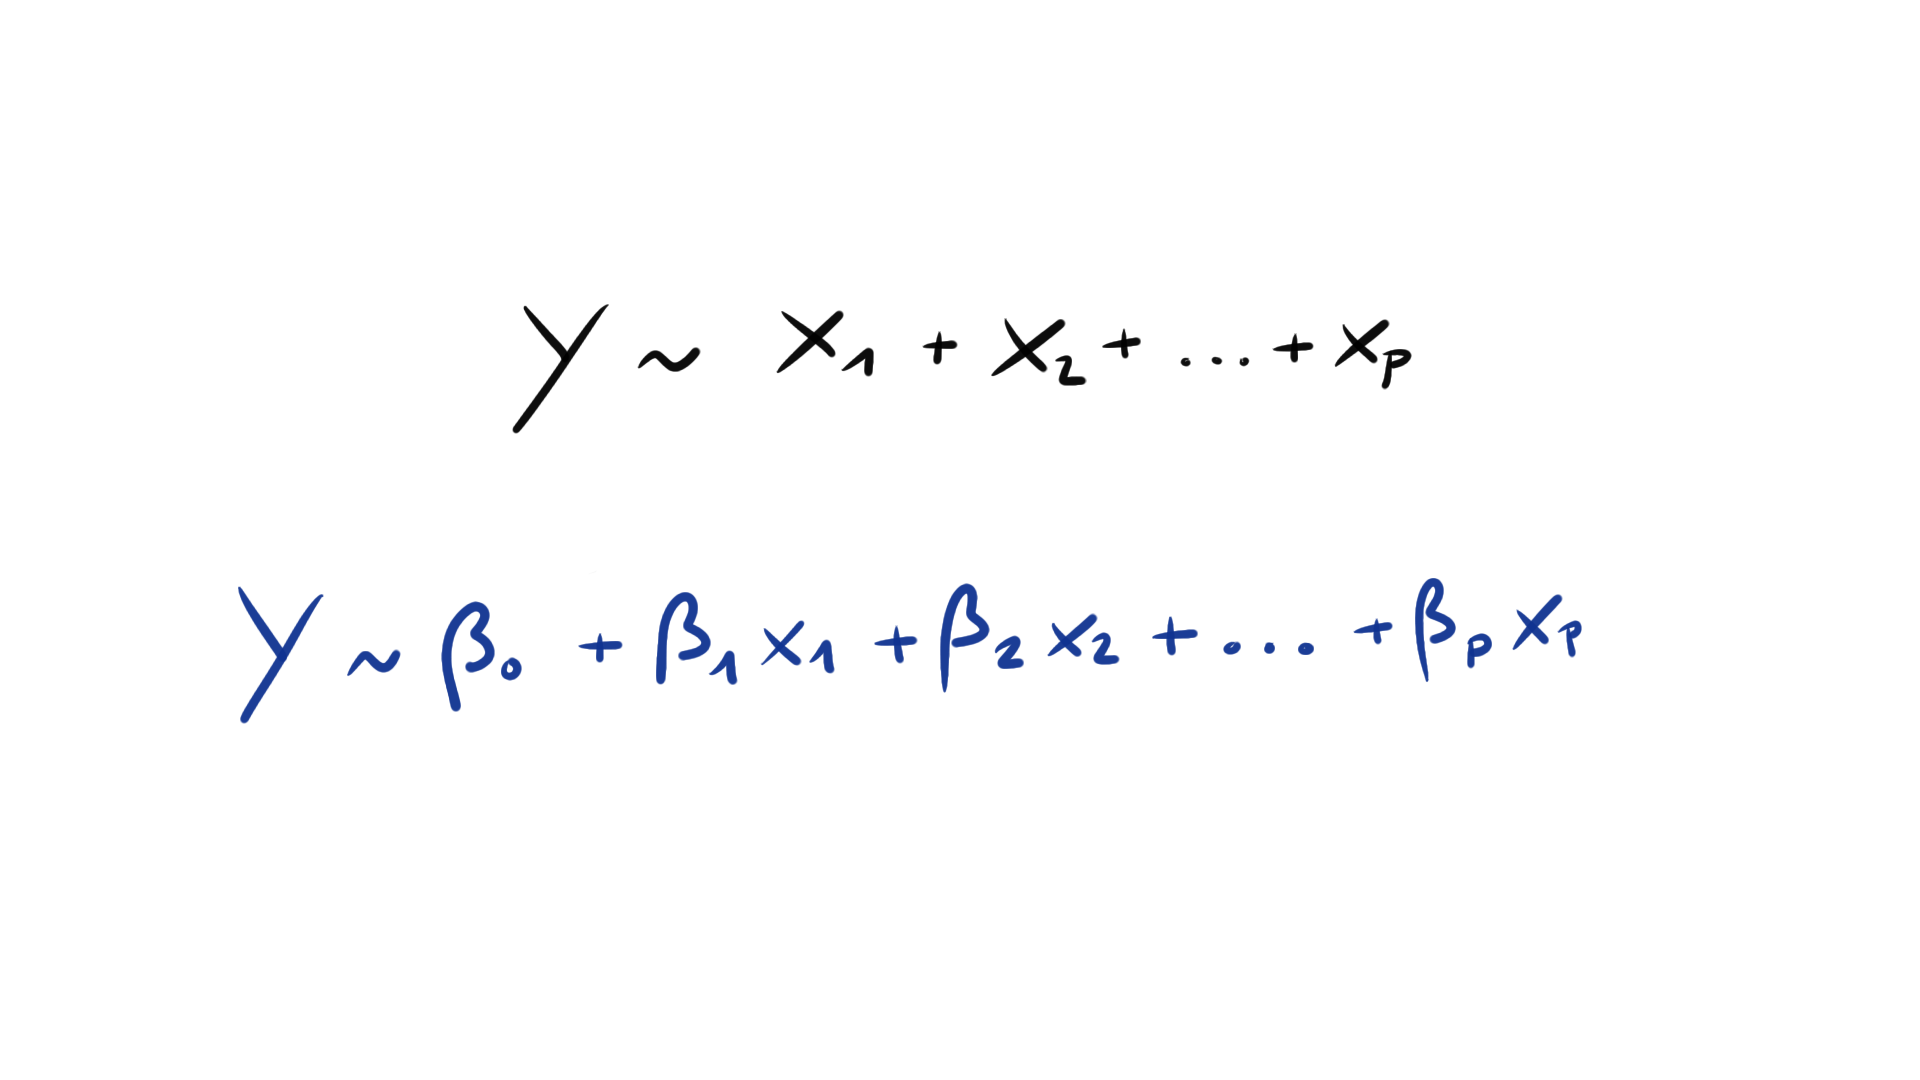
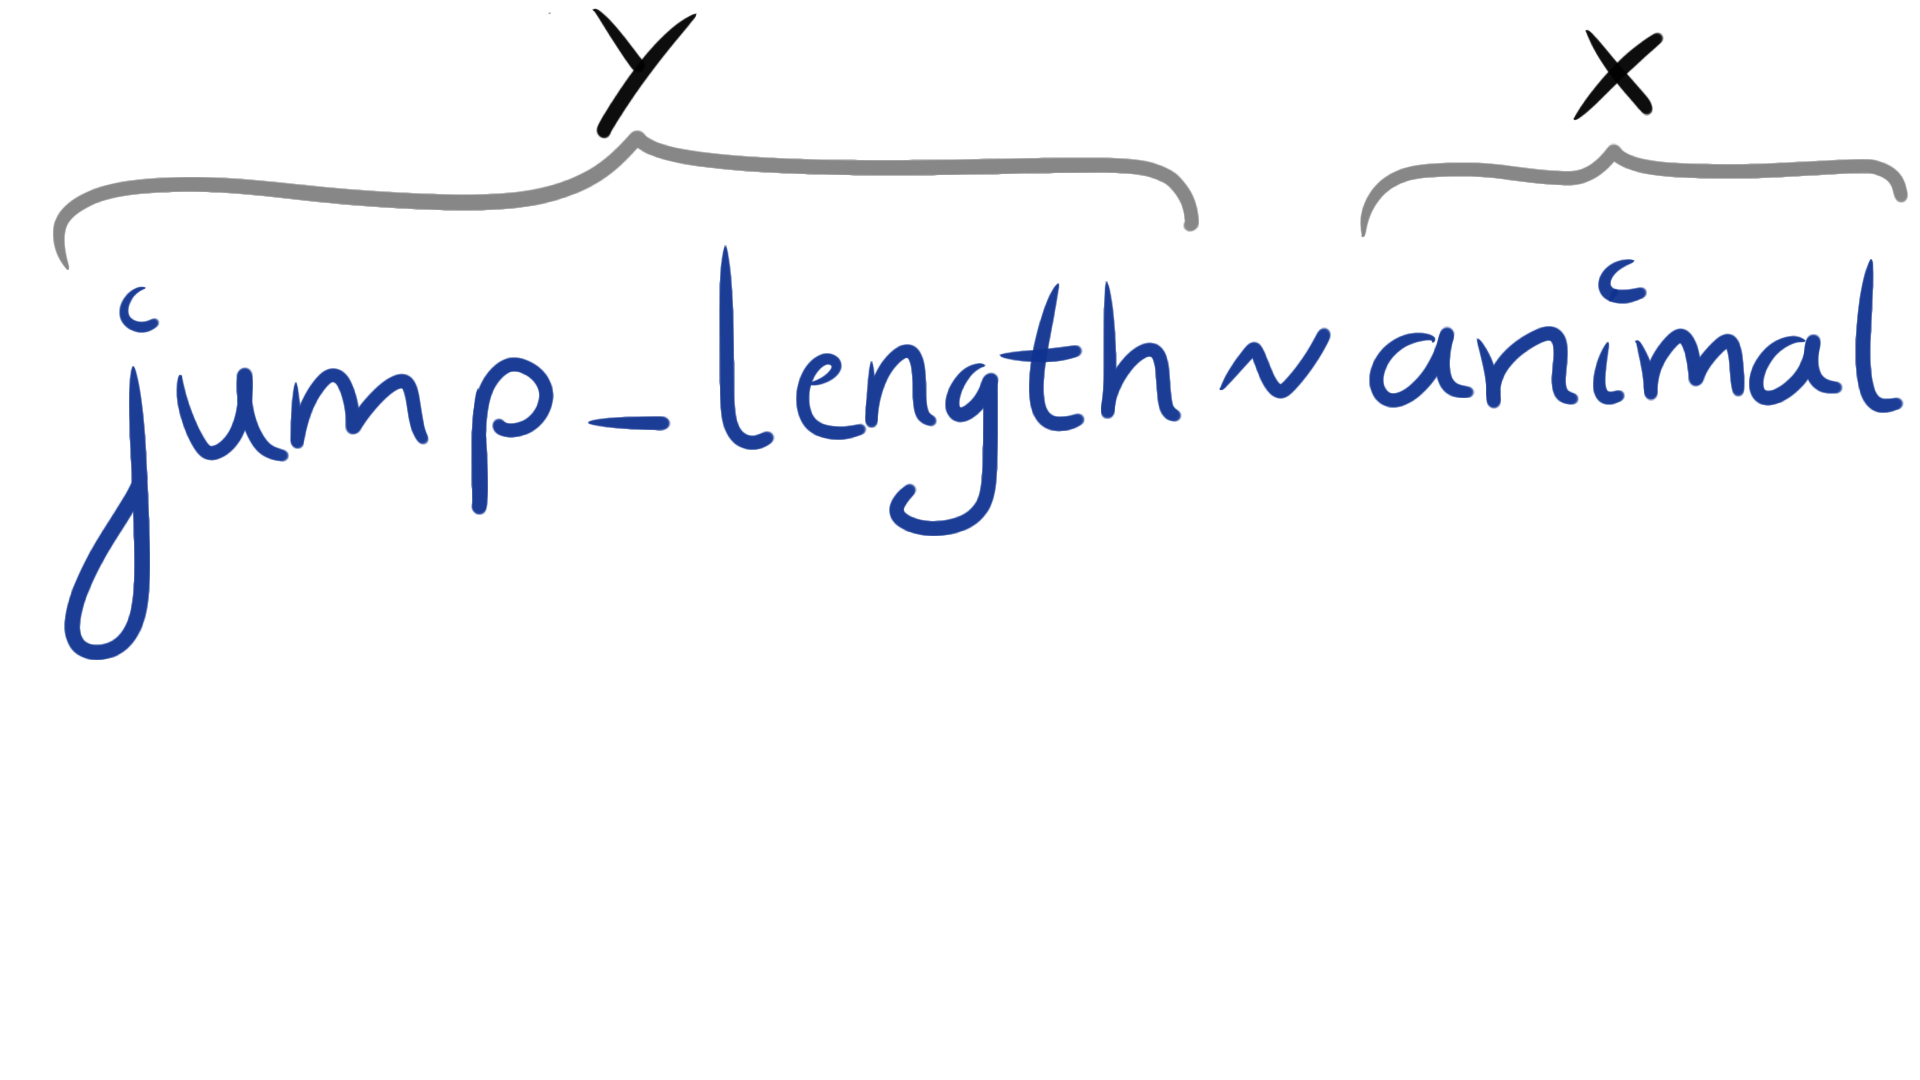
added text to ttest

diff --git a/docs/stat-tests-ttest.html b/docs/stat-tests-ttest.html
@@ -398,30 +398,8 @@ Einführung in den t-Test per Video
 <p>Du findest auf YouTube <a href="https://youtu.be/iECcenEDzOM">Der Two Sample t-Test erklärt</a> als Video Reihe. Ich werde zwar alles nochmal hier als Text aufschreiben, aber manchmal ist das Sehen und Hören dann einfacher.</p>
 </div>
 </div>
-<p>Der t-Test ist <em>der</em> bedeutende Test, wenn es um das Verständnis der Algorithmen und Konzepte in der Statistik geht. Wir haben den t-test schon genutzt um die Idee des statistischen Testens zu verstehen und wir werdend den t-Test auch im statistischen Modellieren wiedertreffen.</p>
-<p>Was macht also der t-Test? Der t-Test vergleicht die Mitfellwerte zweier Gruppen miteinander. Das heißt wir haben zwei Gruppen, wie Hunde und Katzen, und wollen nun wissen wie sich die Sprungweiten der Hundeflöhe im Mittel von den Katzenflöhen unterscheiden. Wichtig ist, dass wir schon jetzt die Modellschreibweise lernen.</p>
-<div id="fig-ttest-0" class="quarto-figure quarto-figure-center anchored">
-<figure class="figure"><p><img src="images/statistical_modeling_0.png" class="img-fluid figure-img" style="width:30.0%"></p>
-<p></p><figcaption aria-hidden="true" class="figure-caption">Abbildung 16.1— Modellschreibweise <span class="math inline">\(y\)</span> hängt ab von <span class="math inline">\(x\)</span>. Das <span class="math inline">\(y\)</span> repräsentiert eine Spalte im Datensatz und das <span class="math inline">\(x\)</span> repräsentiert ebenso eine Spalte im Datensatz. Wir brauchen also zwei Variablen <span class="math inline">\(y\)</span> und <span class="math inline">\(x\)</span>, die natürlich nicht so heißen müssen.</figcaption><p></p>
-</figure>
-</div>
-<div class="page-columns page-full"><p></p><div class="no-row-height column-margin column-container"><span class="aside">Etwas unbefriedigend, dass der t-Test nur <strong>zwei</strong> Gruppen miteinander Vergleichen kann. Mehr Gruppen gehen in der ANOVA im <a href="stat-tests-anova.html"><span>Kapitel&nbsp;18</span></a></span></div></div>
-<p>Was brauchen wir dafür in R? Wir brauchen dafür eine Spalte <span class="math inline">\(y\)</span> mit kontinuierlichen Zahlen und einer Spalte <span class="math inline">\(x\)</span> in dem wir einen Faktor mit zwei Leveln finden. Jedes Level steht dann für eine der beiden Gruppen. Das war es schon.</p>
-<div class="callout-note callout callout-style-default callout-captioned">
-<div class="callout-header d-flex align-content-center">
-<div class="callout-icon-container">
-<i class="callout-icon"></i>
-</div>
-<div class="callout-caption-container flex-fill">
-Was macht der t-Test?
-</div>
-</div>
-<div class="callout-body-container callout-body">
-<p>Der t-test vergleicht zwei Mittelwerte gewichtet bei der Standardabweichung und der Fallzahl miteinander. Etwas statistisch genauer vergleicht der t-Test die Parameter zweier Normalverteilungen miteinander.</p>
-</div>
-</div>
 <div class="callout-caution callout callout-style-default callout-captioned">
-<div class="callout-header d-flex align-content-center" data-bs-toggle="collapse" data-bs-target=".callout-3-contents" aria-controls="callout-3" aria-expanded="false" aria-label="Toggle callout">
+<div class="callout-header d-flex align-content-center" data-bs-toggle="collapse" data-bs-target=".callout-2-contents" aria-controls="callout-2" aria-expanded="false" aria-label="Toggle callout">
 <div class="callout-icon-container">
 <i class="callout-icon"></i>
 </div>
@@ -430,7 +408,7 @@ Ein Wort zur Klausur
 </div>
 <div class="callout-btn-toggle d-inline-block border-0 py-1 ps-1 pe-0 float-end"><i class="callout-toggle"></i></div>
 </div>
-<div id="callout-3" class="callout-3-contents callout-collapse collapse">
+<div id="callout-2" class="callout-2-contents callout-collapse collapse">
 <div class="callout-body-container callout-body">
 <p>Wir nutzen folgende Formel in der Klausur für einen Zweistichproben t-Test:</p>
 <p><span class="math display">\[
@@ -444,6 +422,15 @@ T_{calc} = \sqrt{n}\cfrac{\bar{d}}{s_d}
 </div>
 </div>
 </div>
+<p>Der t-Test ist <em>der</em> bedeutende Test, wenn es um das Verständnis der Algorithmen und Konzepte in der Statistik geht. Wir haben den t-test schon genutzt um die Idee des statistischen Testens zu verstehen und wir werdend den t-Test auch im statistischen Modellieren wiedertreffen.</p>
+<p>Was macht also der t-Test? Der t-Test vergleicht die Mitfellwerte zweier Gruppen miteinander. Das heißt wir haben zwei Gruppen, wie Hunde und Katzen, und wollen nun wissen wie sich die Sprungweiten der Hundeflöhe im Mittel von den Katzenflöhen unterscheiden. Wichtig ist, dass wir schon jetzt die Modellschreibweise lernen.</p>
+<div id="fig-ttest-0" class="quarto-figure quarto-figure-center anchored">
+<figure class="figure"><p><img src="images/statistical_modeling_0.png" class="img-fluid figure-img" style="width:30.0%"></p>
+<p></p><figcaption aria-hidden="true" class="figure-caption">Abbildung 16.1— Modellschreibweise <span class="math inline">\(y\)</span> hängt ab von <span class="math inline">\(x\)</span>. Das <span class="math inline">\(y\)</span> repräsentiert eine Spalte im Datensatz und das <span class="math inline">\(x\)</span> repräsentiert ebenso eine Spalte im Datensatz. Wir brauchen also zwei Variablen <span class="math inline">\(y\)</span> und <span class="math inline">\(x\)</span>, die natürlich nicht so heißen müssen.</figcaption><p></p>
+</figure>
+</div>
+<div class="page-columns page-full"><p></p><div class="no-row-height column-margin column-container"><span class="aside">Etwas unbefriedigend, dass der t-Test nur <strong>zwei</strong> Gruppen miteinander Vergleichen kann. Mehr Gruppen gehen in der ANOVA im <a href="stat-tests-anova.html"><span>Kapitel&nbsp;18</span></a></span></div></div>
+<p>Was brauchen wir dafür in R? Wir brauchen dafür eine Spalte <span class="math inline">\(y\)</span> mit kontinuierlichen Zahlen und einer Spalte <span class="math inline">\(x\)</span> in dem wir einen Faktor mit zwei Leveln finden. Jedes Level steht dann für eine der beiden Gruppen. Das war es schon. Schauen wir uns nochmal den Datensatz <code>flea_dog_cat.xlsx</code> in <a href="#tbl-data-ttest">Tabelle&nbsp;<span>16.1</span></a> an und überlegen, wie wir das realisieren können.</p>
 <div class="cell">
 <div class="cell-output-display">
 <div id="tbl-data-ttest" class="anchored">
@@ -560,6 +547,25 @@ T_{calc} = \sqrt{n}\cfrac{\bar{d}}{s_d}
 </div>
 </div>
 </div>
+<p>In <a href="#fig-ttest-1">Abbildung&nbsp;<span>16.2</span></a> sehen wir einmal den Zusammenhang zwischen den Schreibweise <span class="math inline">\(y \sim x\)</span> und den beiden Variablen <code>jump_length</code> als <span class="math inline">\(y\)</span> und <code>animal</code> als <span class="math inline">\(x\)</span> aus dem Datensatz <code>flea_dog_cat.xlsx</code>. Wir haben also die <code>formula</code> Schreibweise in R als <code>jump_length ~ animal</code>.</p>
+<div id="fig-ttest-1" class="quarto-figure quarto-figure-center anchored">
+<figure class="figure"><p><img src="images/statistical_modeling_1.png" class="img-fluid figure-img" style="width:80.0%"></p>
+<p></p><figcaption aria-hidden="true" class="figure-caption">Abbildung 16.2— Modellschreibweise bzw. <code>formula</code> Schreibweise in R von <span class="math inline">\(y\)</span> hängt ab von <span class="math inline">\(x\)</span> am Beispiel des Datensatzes <code>flea_dog_cat.xlsx</code> mit den beiden Variablen <code>jump_length</code> als <span class="math inline">\(y\)</span> und <code>animal</code> als <span class="math inline">\(x\)</span>.</figcaption><p></p>
+</figure>
+</div>
+<div class="callout-note callout callout-style-default callout-captioned">
+<div class="callout-header d-flex align-content-center">
+<div class="callout-icon-container">
+<i class="callout-icon"></i>
+</div>
+<div class="callout-caption-container flex-fill">
+Was macht der t-Test?
+</div>
+</div>
+<div class="callout-body-container callout-body">
+<p>Der t-test vergleicht zwei Mittelwerte gewichtet bei der Standardabweichung und der Fallzahl miteinander. Etwas statistisch genauer vergleicht der t-Test die Parameter zweier Normalverteilungen miteinander.</p>
+</div>
+</div>
 
 <div class="no-row-height column-margin column-container"><div class="">
 <p><a href="https://de.wikipedia.org/wiki/Zentraler_Grenzwertsatz">Zentraler Grenzwertsatz</a></p>
@@ -608,22 +614,22 @@ H_A: \bar{y}_{dog} &amp;\neq \bar{y}_{cat} \\
 <div class="cell-output-display">
 <div id="fig-boxplot-ttest" class="quarto-figure quarto-figure-center anchored">
 <figure class="figure"><p><img src="stat-tests-ttest_files/figure-html/fig-boxplot-ttest-1.png" class="img-fluid figure-img" width="480"></p>
-<p></p><figcaption aria-hidden="true" class="figure-caption">Abbildung 16.2— Boxplot der Sprungweiten [cm] von Hunden und Katzen.</figcaption><p></p>
+<p></p><figcaption aria-hidden="true" class="figure-caption">Abbildung 16.3— Boxplot der Sprungweiten [cm] von Hunden und Katzen.</figcaption><p></p>
 </figure>
 </div>
 </div>
 </div>
-<p>Das ist das Beispiel <a href="#fig-boxplot-ttest">Abbildung&nbsp;<span>16.2</span></a></p>
+<p>Das ist das Beispiel <a href="#fig-boxplot-ttest">Abbildung&nbsp;<span>16.3</span></a></p>
 <div class="cell" data-layout-align="center">
 <div class="cell-output-display">
 <div id="fig-dotplot-ttest" class="quarto-figure quarto-figure-center anchored">
 <figure class="figure"><p><img src="stat-tests-ttest_files/figure-html/fig-dotplot-ttest-1.png" class="img-fluid figure-img" width="480"></p>
-<p></p><figcaption aria-hidden="true" class="figure-caption">Abbildung 16.3— Dotplot der Sprungweiten [cm] von Hunden und Katzen zusammen mit dem Mittelwert und der Stanardabweichung.</figcaption><p></p>
+<p></p><figcaption aria-hidden="true" class="figure-caption">Abbildung 16.4— Dotplot der Sprungweiten [cm] von Hunden und Katzen zusammen mit dem Mittelwert und der Stanardabweichung.</figcaption><p></p>
 </figure>
 </div>
 </div>
 </div>
-<p>Das ist das Beispiel <a href="#fig-dotplot-ttest">Abbildung&nbsp;<span>16.3</span></a></p>
+<p>Das ist das Beispiel <a href="#fig-dotplot-ttest">Abbildung&nbsp;<span>16.4</span></a></p>
 </section><section id="student-t-test" class="level2 page-columns page-full" data-number="16.3"><h2 data-number="16.3" class="anchored" data-anchor-id="student-t-test">
 <span class="header-section-number">16.3</span> Student t-Test</h2>
 <div class="cell">
@@ -760,7 +766,7 @@ mean difference
 <span class="header-section-number">16.6</span> Freiheitsgrade im t-Test</h2>
 <div id="fig-ttest-06" class="quarto-figure quarto-figure-center anchored">
 <figure class="figure"><p><img src="images/t-verteilung_06.png" class="img-fluid figure-img"></p>
-<p></p><figcaption aria-hidden="true" class="figure-caption">Abbildung 16.4— kjk</figcaption><p></p>
+<p></p><figcaption aria-hidden="true" class="figure-caption">Abbildung 16.5— kjk</figcaption><p></p>
 </figure>
 </div>
 </section><section id="die-wichtigkeit-des-t-tests" class="level2" data-number="16.7"><h2 data-number="16.7" class="anchored" data-anchor-id="die-wichtigkeit-des-t-tests">
